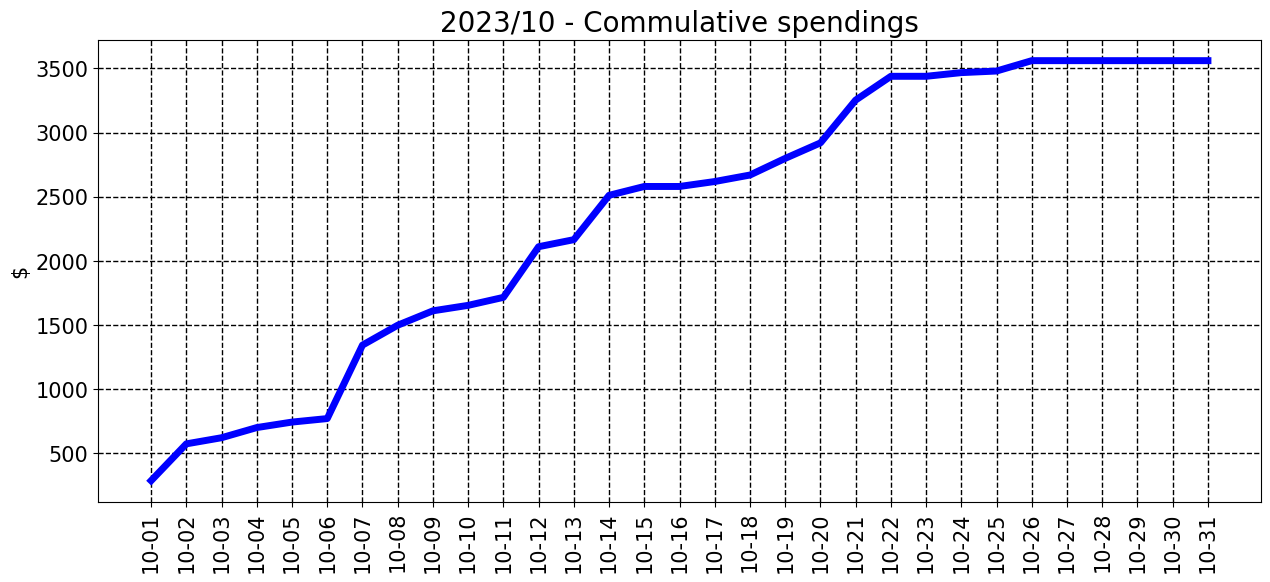
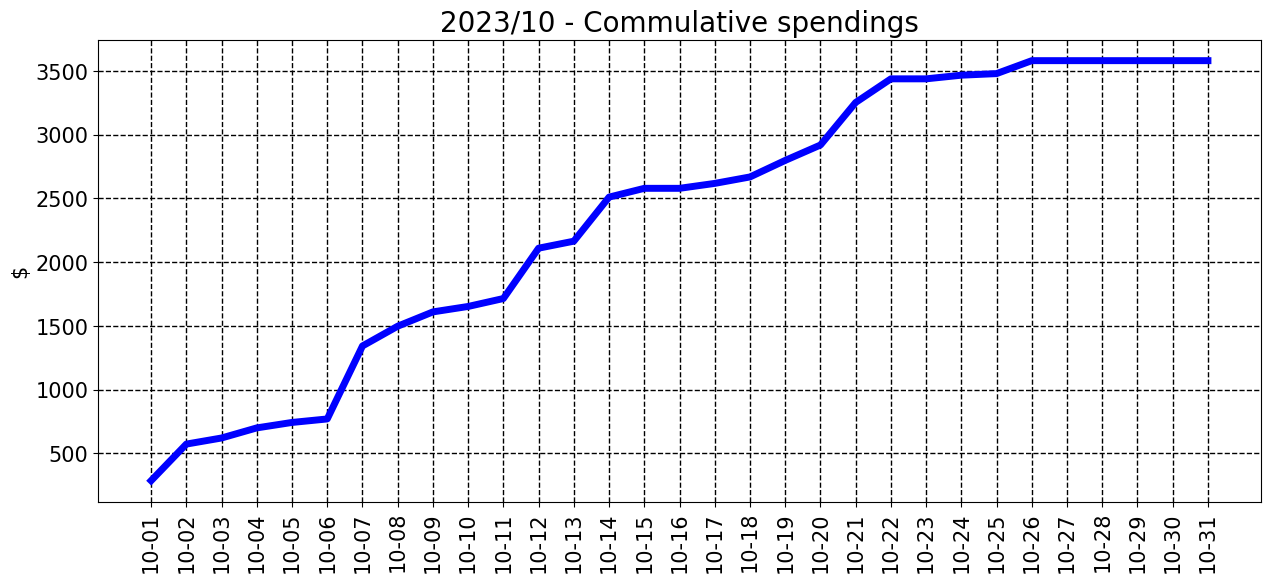
commit from python

diff --git a/README.md b/README.md
@@ -7,7 +7,7 @@ __________________________________
 <sub><sup>
 | Spent | Avg daily | End of month projection | Spent since 2023/7 |
 |---|---|---|---|
-| $3560.0  |  $136.9  | $4244.0  |  $18919.0  |
+| $3581.0  |  $137.7  | $4269.0  |  $18940.0  |
 </sub></sup>
 __________________________________
 ![graph_10_sum](graph_10_sum.png)
